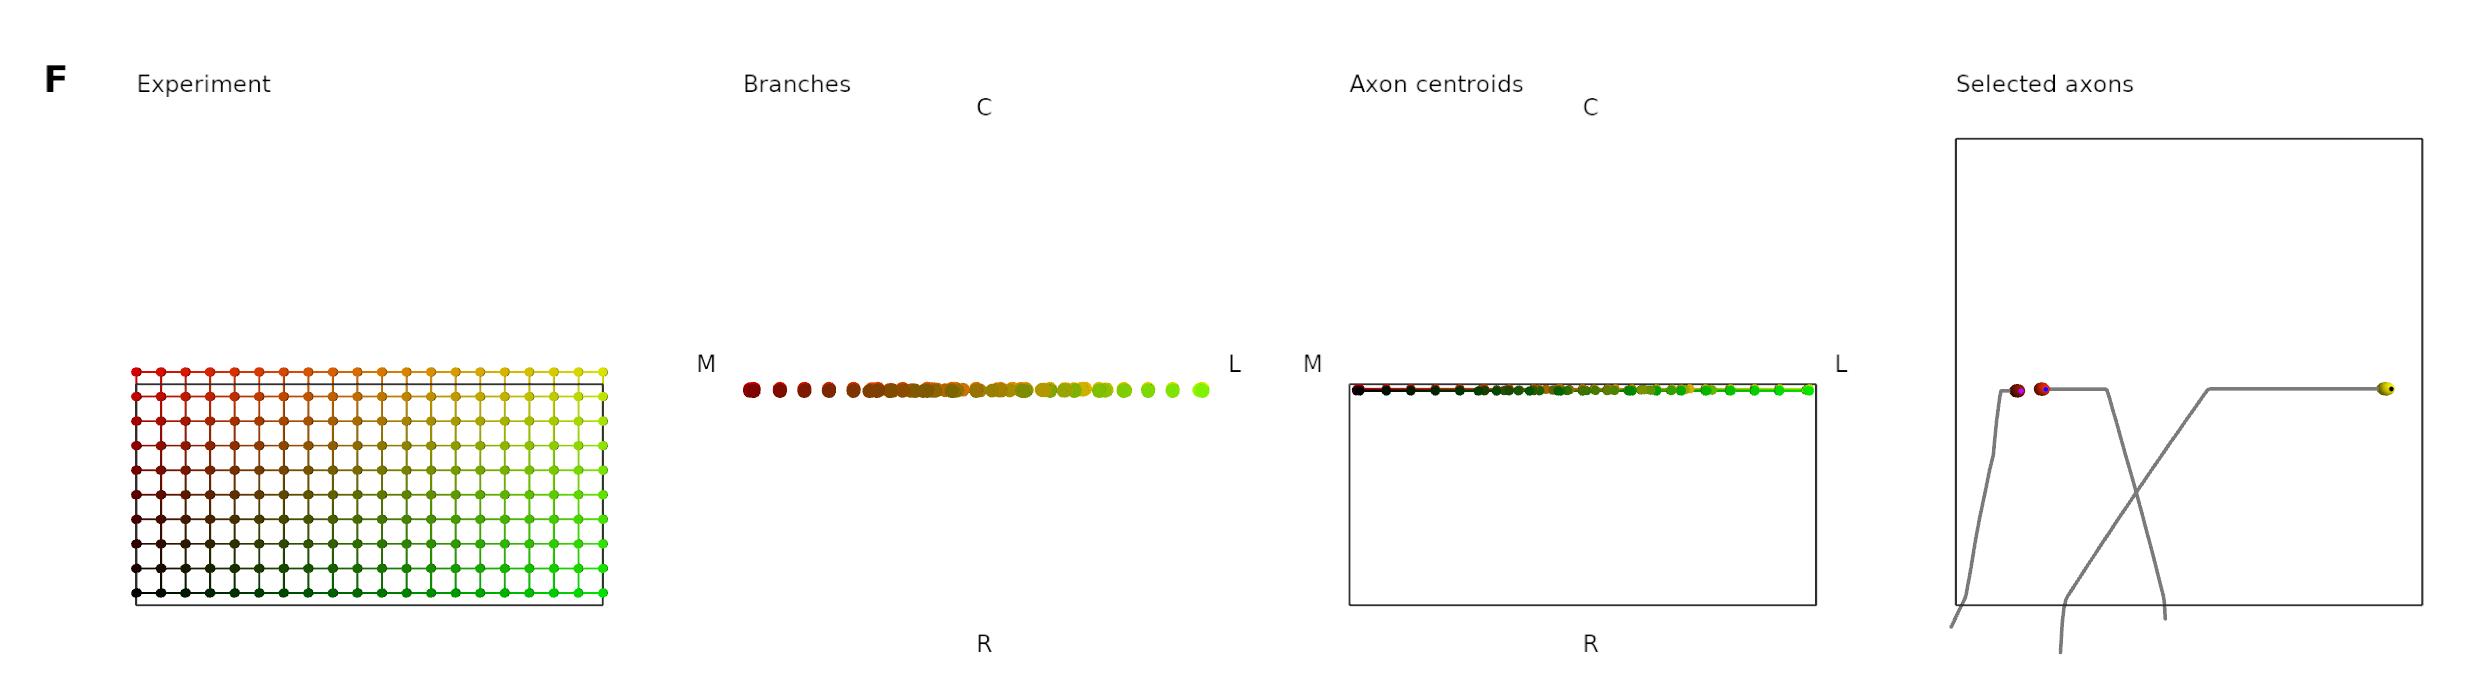
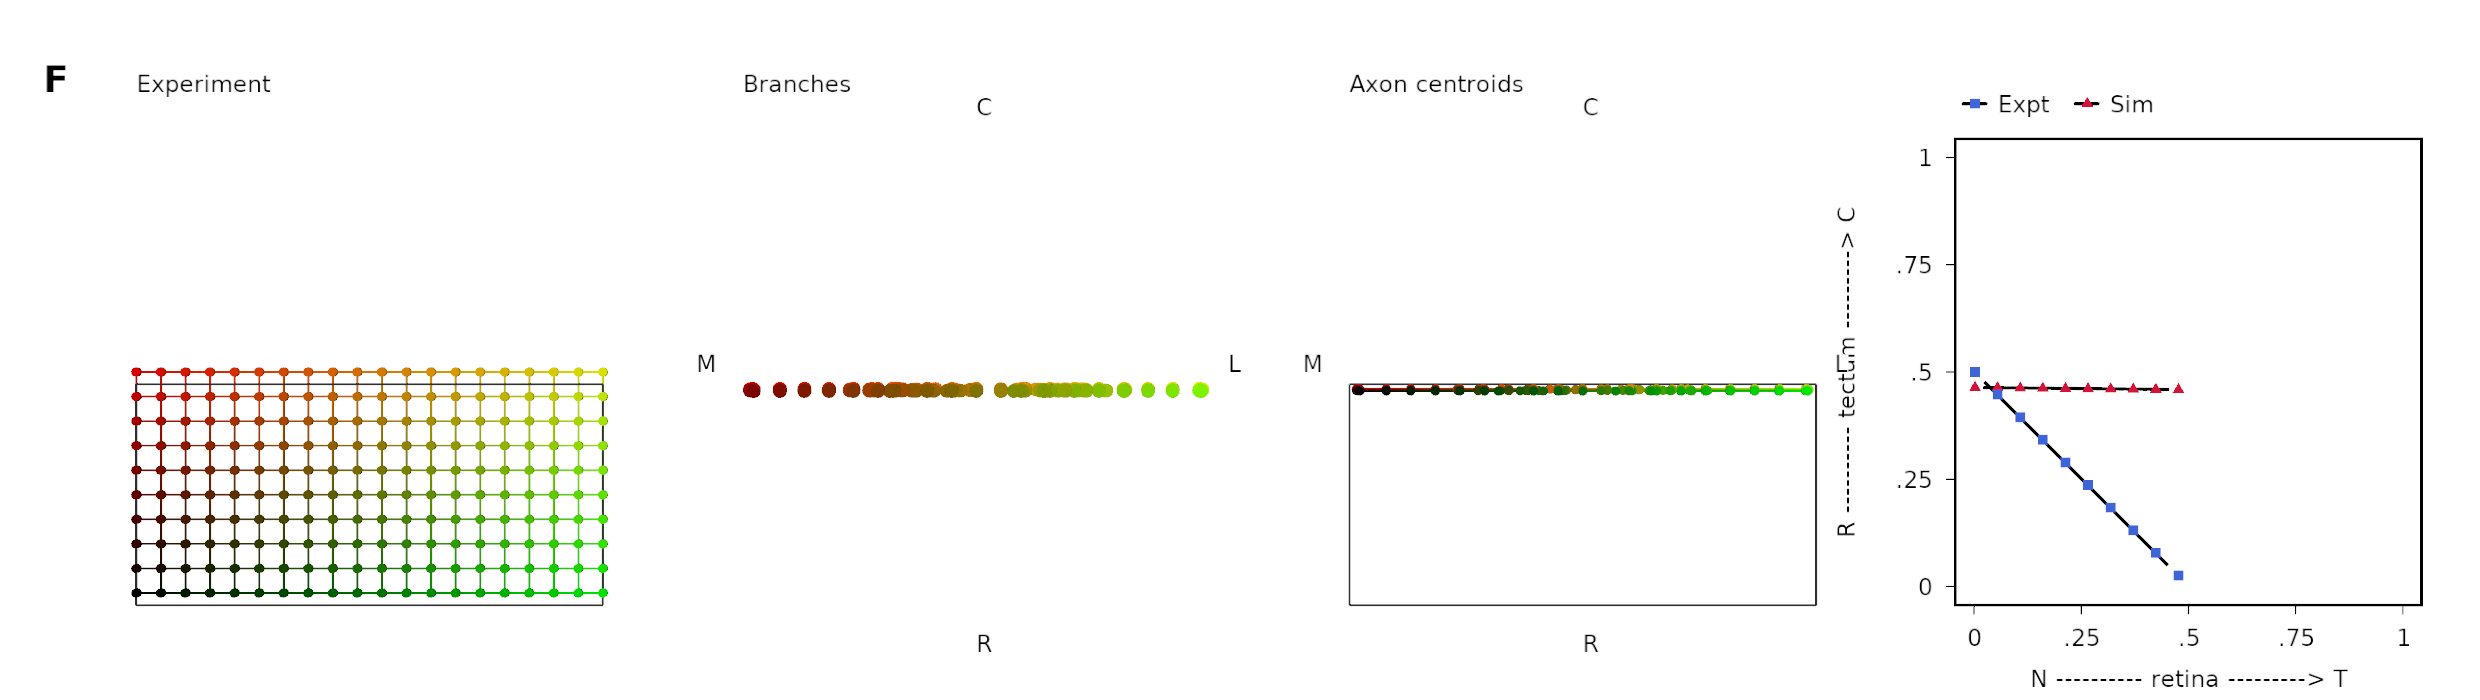
And another layout, replacing the selected axons from the NT vs RC graph

diff --git a/sim/agent/agent1.h b/sim/agent/agent1.h
@@ -248,6 +248,24 @@ struct Agent1
                 this->gv->setdata (nt_m, rc_m, ss.str());
                 this->gv->reinit();
                 this->v->render();
+
+            } else if (this->layout == graph_layout::h) {
+                // Graph layout h shows the nt vs rc (for the mid band of the retina/central column of the tectum?).
+                morph::vVector<T>nt;
+                morph::vVector<T>rc;
+                morph::vVector<T>rc_expt;
+                size_t ii = 0;
+                for (ii = 0; ii < this->ret->posn.size(); ++ii) {
+                    nt.push_back(1-this->ret->posn[ii][0]);
+                    rc.push_back(this->ax_centroids.p[ii][1]);
+                    rc_expt.push_back(this->ax_centroids.targ[ii][1]);
+                }
+                // Also show expt. version.
+
+                this->gv->setdata (nt, rc_expt, "Expt");
+                this->gv->setdata (nt, rc, "Sim");
+                this->gv->reinit();
+                this->v->render();
             }
 
             // Save final image based on config file names
@@ -306,7 +324,7 @@ struct Agent1
         }
         this->cv->reinit(); // Centroids to end
 
-        if (this->layout != graph_layout::e && this->layout != graph_layout::f) {
+        if (this->layout != graph_layout::e && this->layout != graph_layout::f && this->layout != graph_layout::h) {
             if (this->layout != graph_layout::b) {
                 this->tcv->reinit(); // Experiment
             }
@@ -1302,14 +1320,14 @@ struct Agent1
         unsigned int wdefault = 1200;
         if (this->layout == graph_layout::a || this->layout == graph_layout::d) { wdefault = 1920; }
         if (this->layout == graph_layout::b || this->layout == graph_layout::e
-            || this->layout == graph_layout::g) { wdefault = 2480; }
+            || this->layout == graph_layout::g || this->layout == graph_layout::h) { wdefault = 2480; }
         if (this->layout == graph_layout::c) { wdefault = 2200; }
         if (this->layout == graph_layout::f) { wdefault = 675; }
         const unsigned int ww = this->conf->getUInt ("win_width", wdefault);
         unsigned int hdefault = 800;
         if (this->layout == graph_layout::a || this->layout == graph_layout::d) { hdefault = 1200; }
         if (this->layout == graph_layout::b || this->layout == graph_layout::e
-            || this->layout == graph_layout::g) { hdefault = 700; }
+            || this->layout == graph_layout::g || this->layout == graph_layout::h ) { hdefault = 700; }
         if (this->layout == graph_layout::c) { hdefault = 1180; }
         if (this->layout == graph_layout::f) { hdefault = 550; }
         const unsigned int wh = this->conf->getUInt ("win_height", hdefault);
@@ -1332,6 +1350,8 @@ struct Agent1
         } else if (this->layout == graph_layout::f) {
             this->v->setSceneTrans (1.00190961f,0.0175217576f,-2.70000315f);
         } else if (this->layout == graph_layout::g) {
+            this->v->setSceneTrans (-0.865482569f,-0.0471459851f,-2.79999995f);
+        } else if (this->layout == graph_layout::h) {
             this->v->setSceneTrans (-0.865482569f,-0.0471459851f,-2.79999995f);
         }
 
@@ -1366,6 +1386,9 @@ struct Agent1
         } else if (this->layout == graph_layout::g) { // 1x4; expt, branches, centroids, selected
             const std::string sl = this->conf->getString ("startletter", "A");
             this->graph_layout_g (offset, sl);
+        } else if (this->layout == graph_layout::h) { // 1x4; expt, branches, centroids, ret NT vs tec RC
+            const std::string sl = this->conf->getString ("startletter", "A");
+            this->graph_layout_h (offset, sl);
         } else {
             throw std::runtime_error ("Unknown layout");
         }
@@ -1787,6 +1810,63 @@ struct Agent1
         //jtvm->addLabel (std::string({sl+1}), g_B, morph::colour::black, morph::VisualFont::VeraBold, lfs, lpts);
         //jtvm->addLabel (std::string({sl+2}), g_C, morph::colour::black, morph::VisualFont::VeraBold, lfs, lpts);
         //jtvm->addLabel (std::string({sl+3}), g_D, morph::colour::black, morph::VisualFont::VeraBold, lfs, lpts);
+        this->v->addVisualModel (jtvm);
+    }
+
+    // 1x4 graphs (expt, branches, centroids, ret NT vs tec RC)
+    void graph_layout_h (const morph::Vector<float>& offset0, const std::string& startletter)
+    {
+        morph::Vector<float> g_A = offset0 + morph::Vector<float>({0.0f, 0.0f, 0.0f});
+        morph::Vector<float> g_B = offset0 + morph::Vector<float>({1.3f, 0.0f, 0.0f});
+        morph::Vector<float> g_C = offset0 + morph::Vector<float>({2.6f, 0.0f, 0.0f});
+        morph::Vector<float> g_D = offset0 + morph::Vector<float>({3.9f, 0.0f, 0.0f});
+
+        this->tcv = new NetVisual<T> (v->shaderprog, v->tshaderprog, g_A, &this->ax_centroids);
+        this->tcv->viewmode = netvisual_viewmode::targetplus;
+        this->tcv->finalize();
+        this->tcv->addLabel ("Experiment", {0.0f, 1.1f, 0.0f});
+        this->v->addVisualModel (this->tcv);
+
+        this->bv = new BranchVisual<T, N, B> (v->shaderprog, v->tshaderprog, g_B, &this->branches, &this->ax_history);
+        this->bv->rcpt_scale.compute_autoscale (rcpt_min, rcpt_max);
+        this->bv->target_scale.compute_autoscale (0, 1);
+        this->bv->view = branchvisual_view::discs;
+        this->bv->finalize();
+        this->bv->addLabel ("Branches", {0.0f, 1.1f, 0.0f});
+        this->addOrientationLabels (this->bv, std::string("Tectal"));
+        this->v->addVisualModel (this->bv);
+
+        // Axon centroids: Centroids of branches viewed with a NetVisual
+        this->cv = new NetVisual<T> (v->shaderprog, v->tshaderprog, g_C, &this->ax_centroids);
+        //this->cv->maxlen = this->conf->getDouble ("maxnetline", 1.0);
+        //this->cv->viewmode = netvisual_viewmode::actual_nolines;
+        this->cv->viewmode = netvisual_viewmode::actual;
+        if (this->layout == graph_layout::b) {
+            this->cv->radiusFixed = 0.02;
+        }
+        this->cv->finalize();
+        this->cv->addLabel ("Axon centroids", {0.0f, 1.1f, 0.0f});
+        this->addOrientationLabels (this->cv, std::string("Tectal"));
+        this->v->addVisualModel (this->cv);
+
+        // NT vs RC graph here
+        this->gv = new morph::GraphVisual<T> (v->shaderprog, v->tshaderprog, g_D);
+        this->gv->twodimensional = false;
+        this->gv->setlimits (0, 1, 0, 1);
+        this->gv->policy = morph::stylepolicy::markers;
+        this->gv->ylabel = "R ---------- tectum ---------> C";
+        this->gv->xlabel = "N ---------- retina ---------> T";
+        this->gv->finalize();
+        v->addVisualModel (this->gv);
+
+        // Figure letters
+        morph::Vector<float> ozero = {-0.2f, 1.1f, 0.0f};
+        float lfs = 0.08f; // letter font size
+        int lpts = 36; // letter point resolution
+        char sl = 'A';
+        if (!startletter.empty()) { sl = startletter[0]; }
+        morph::VisualModel* jtvm = new morph::VisualModel (v->shaderprog, v->tshaderprog, ozero);
+        jtvm->addLabel (std::string({sl}), g_A, morph::colour::black, morph::VisualFont::VeraBold, lfs, lpts);
         this->v->addVisualModel (jtvm);
     }
 

diff --git a/paper/paper.tex b/paper/paper.tex
@@ -690,7 +690,7 @@ failing to arrange themselves across the entire tectum, due to the pure
 the tectal ablation simulation fails to reproduce experimentally observed
 results in which the retinal map `squashes up' within the remaining tectal
 region. Instead, axons from the transverse retina arrange with normal spacing
-and axons from the nasal retina are pushd to the caudal-most side of the
+and axons from the nasal retina are pushed to the caudal-most side of the
 remaining tectum (Fig.\,\ref{f:chsurg}E). A similar result occurs in the
 mismatch experiment (Fig.\,\ref{f:chsurg}F), but in this case there are no
 axons from teh transverse retina, which was been ablated and only the axons
